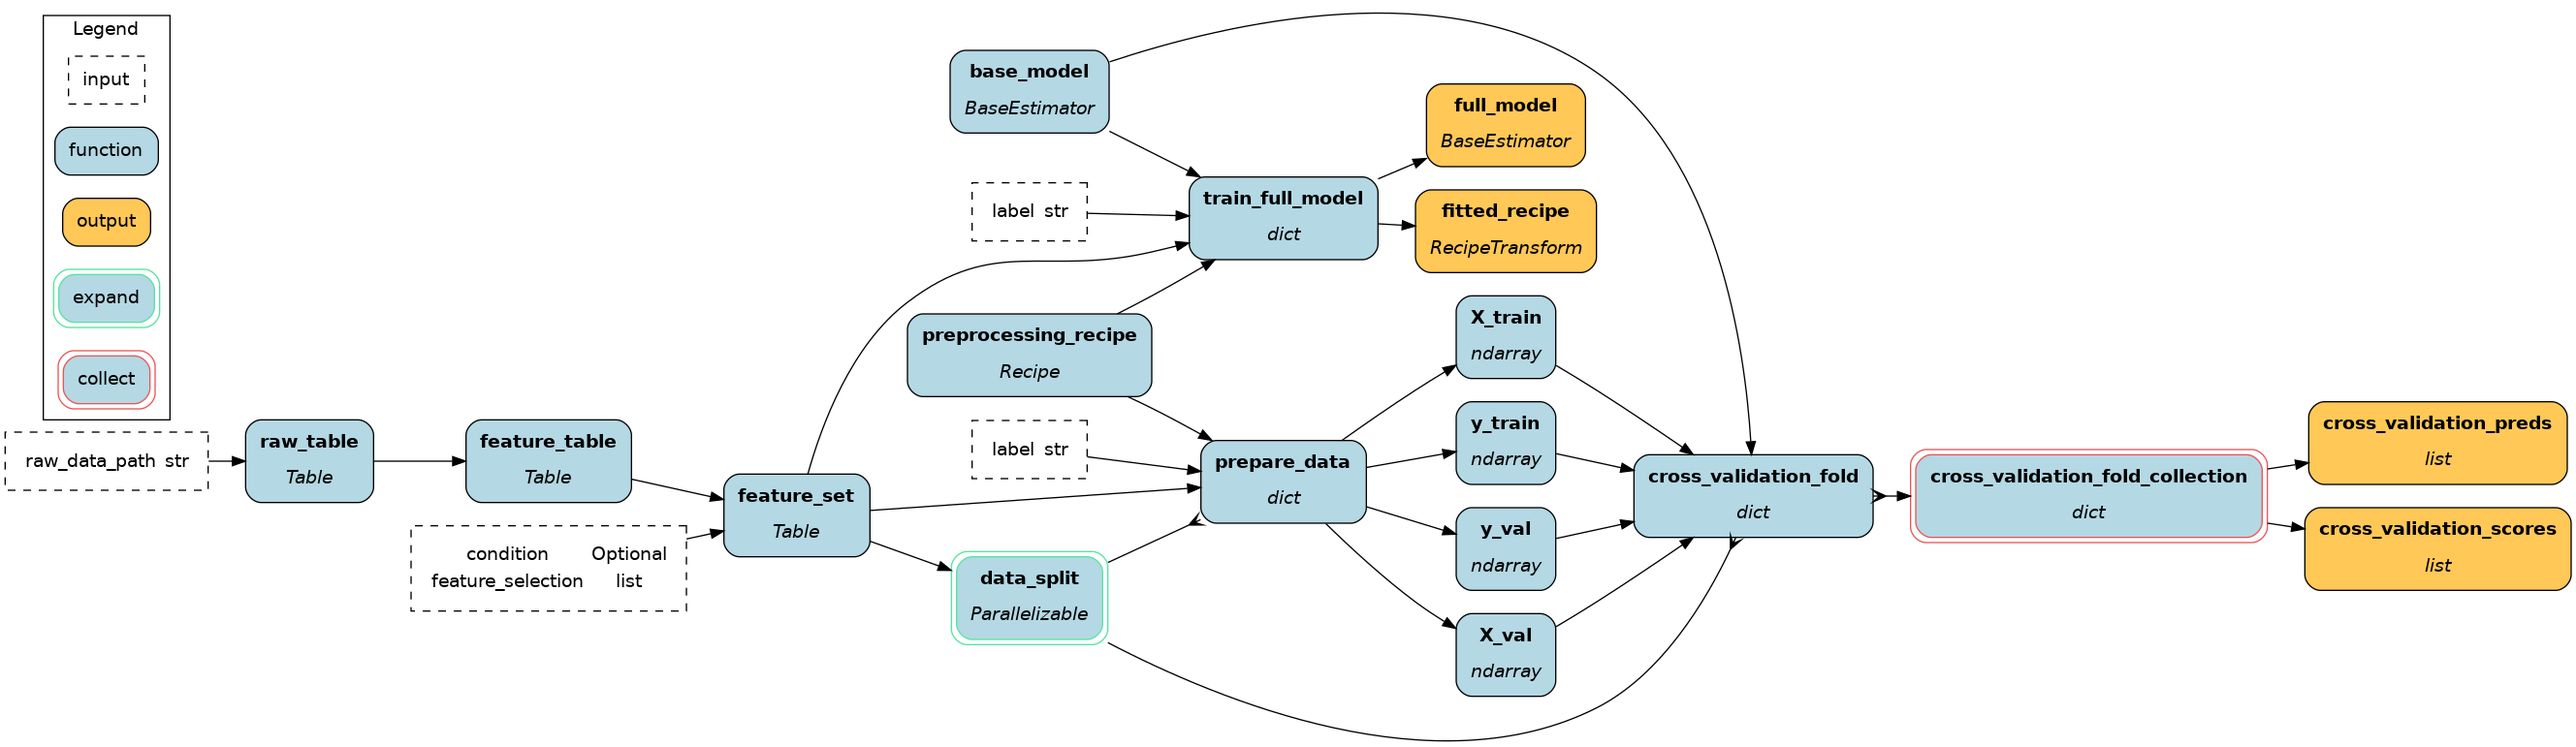
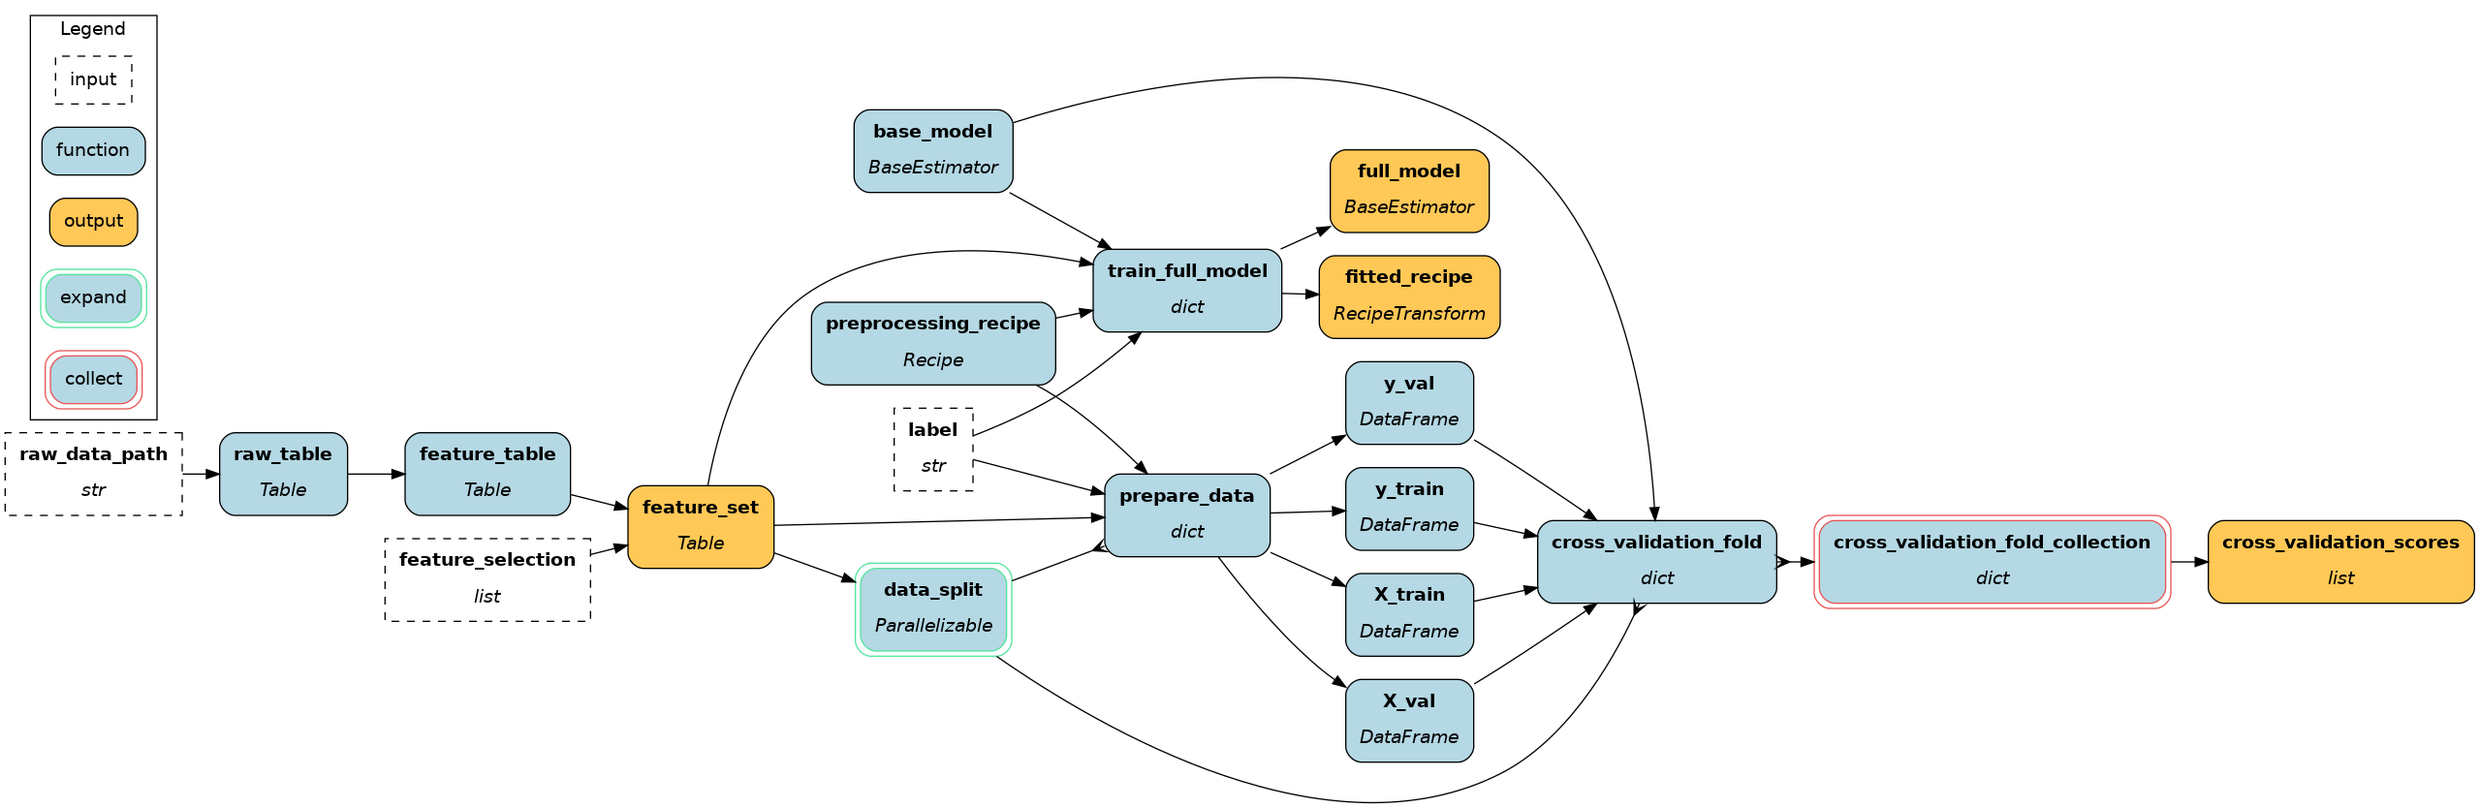
finished cross-validation; bug for column + model

diff --git a/examples/ibis/model_training.py b/examples/ibis/model_training.py
@@ -14,22 +14,29 @@ from hamilton.htypes import Collect, Parallelizable
 
 @config.when(model="linear")
 def base_model__linear() -> BaseEstimator:
+    """Use Linear regression"""
     return LinearRegression()
 
 
 @config.when(model="random_forest")
 def base_model__random_forest() -> BaseEstimator:
+    "Use Random forest regression"
     return RandomForestRegressor()
 
 
 @config.when(model="boosting")
 def base_model__boosting() -> BaseEstimator:
+    "Use gradient boosting reression"
     return HistGradientBoostingRegressor()
 
 
 def preprocessing_recipe() -> ibisml.Recipe:
+    """Recipe to preprocess data for fitting and inference.
+    We drop the temporary `idx` column generated to
+    create cross validation splits
+    """
     return ibisml.Recipe(
-        ibisml.Drop(["id"]),
+        ibisml.Drop(["idx"]),
         ibisml.ImputeMean(ibisml.numeric()),
         ibisml.ScaleStandard(ibisml.numeric()),
         ibisml.OneHotEncode(ibisml.nominal()),
@@ -40,9 +47,10 @@ def data_split(
     feature_set: ir.Table,
     n_splits: int = 3,
 ) -> Parallelizable[tuple]:
-    ids = feature_set.id.to_pandas()
+    """Generate indices to create train/validation splits n times"""
     folds = KFold(n_splits=n_splits)
-    for train_idx, val_idx in folds.split(ids):
+    idx = list(range(feature_set.count().execute()))
+    for train_idx, val_idx in folds.split(idx):
         yield train_idx, val_idx
 
 
@@ -60,10 +68,12 @@ def prepare_data(
     data_split: tuple,
     preprocessing_recipe: ibisml.Recipe,
 ) -> dict:
+    """Split data and apply preprocessing recipe"""
     train_idx, val_idx = data_split
-
-    train_set = feature_set  # .filter(ibis._.id.isin(train_idx))
-    val_set = feature_set  # .filter(ibis._.id.isin(val_idx))
+    # add temporary idx column for train/val splits
+    feature_set = feature_set.mutate(idx=ibis.row_number())
+    train_set = feature_set.filter(ibis._.idx.isin(train_idx))
+    val_set = feature_set.filter(ibis._.idx.isin(val_idx))
 
     transform = preprocessing_recipe.fit(train_set, outcomes=[label])
 
@@ -92,6 +102,7 @@ def cross_validation_fold(
     base_model: BaseEstimator,
     data_split: tuple,
 ) -> dict:
+    """Train model and make predictions on validation"""
     train_idx, val_idx = data_split
     model = clone(base_model)
 
@@ -110,6 +121,8 @@ def cross_validation_fold(
     )
 )
 def cross_validation_fold_collection(cross_validation_fold: Collect[dict]) -> dict:
+    """Collect results from cross validation folds; separate predictions and
+    performance scores into two variables"""
     scores, preds = [], []
     for fold in cross_validation_fold:
         scores.append(fold.pop("score"))
@@ -121,10 +134,14 @@ def cross_validation_fold_collection(cross_validation_fold: Collect[dict]) -> di
 
 
 def prediction_table(cross_validation_preds: list[dict]) -> ir.Table:
+    """Create a table with cross validation predictions for future reference"""
     return ibis.memtable(cross_validation_preds)
 
 
 def store_predictions(prediction_table: ir.Table) -> bool:
+    """Store the cross validation predictions table somewhere
+    Currently only returns True.
+    """
     return True
 
 
@@ -140,6 +157,7 @@ def train_full_model(
     preprocessing_recipe: ibisml.Recipe,
     base_model: BaseEstimator,
 ) -> dict:
+    """Train a model on the full dataset to use for inference."""
     transform = preprocessing_recipe.fit(feature_set, outcomes=[label])
 
     data = transform(feature_set)
@@ -152,54 +170,4 @@ def train_full_model(
         full_model=base_model,
         fitted_recipe=transform,
     )
-
-
-if __name__ == "__main__":
-    import model_training
-    import table_dataflow
-
-    from hamilton import driver
-    from hamilton.execution.executors import SynchronousLocalTaskExecutor
-
-    dr = (
-        driver.Builder()
-        .enable_dynamic_execution(allow_experimental_mode=True)
-        .with_modules(model_training, table_dataflow)
-        .with_remote_executor(SynchronousLocalTaskExecutor())
-        .with_config(dict(model="linear"))
-        .build()
-    )
-
-    inputs = dict(
-        raw_data_path="../data_quality/simple/Absenteeism_at_work.csv",
-        feature_selection=[
-            "id",
-            "has_children",
-            "has_pet",
-            "is_summer_brazil",
-            "service_time",
-            "seasons",
-            "disciplinary_failure",
-            "absenteeism_time_in_hours",
-        ],
-        condition=ibis.ifelse(ibis._.has_pet == 1, True, False),
-        label="absenteeism_time_in_hours",
-    )
-    dr.visualize_execution(
-        final_vars=[
-            "cross_validation_scores",
-            "cross_validation_preds",
-            "full_model",
-            "fitted_recipe",
-        ],
-        output_file_path="cross_validation.png",
-        inputs=inputs,
-    )
-    final_vars = ["cross_validation_scores"]
-
-    res = dr.execute(final_vars, inputs=inputs)
-
-    # df = res["feature_set"].to_pandas()
-    print(res["cross_validation_scores"])  # .to_pandas())
-    breakpoint()
-    print()
+    

diff --git a/examples/ibis/run.py b/examples/ibis/run.py
@@ -1,0 +1,68 @@
+import argparse
+
+from hamilton import driver
+from hamilton.execution.executors import SynchronousLocalTaskExecutor
+
+from hamilton.plugins.h_tqdm import ProgressBar
+
+def main(level: str, model: str):
+    dataflow_components = []
+    config = {}
+    final_vars = ["feature_set"]
+    
+    if level == "column":
+        import column_dataflow
+        dataflow_components.append(column_dataflow)
+    elif level == "table":
+        import table_dataflow
+        dataflow_components.append(table_dataflow)
+    else:
+        raise ValueError("`level` must be in ['column', 'table']")
+    
+    if model:
+        import model_training
+        dataflow_components.append(model_training)
+        config["model"] = model
+        final_vars.extend(
+            ["full_model", "fitted_recipe", "cross_validation_scores"]
+        )
+        
+    # build the Driver from modules
+    dr = (
+        driver.Builder()
+        .with_modules(*dataflow_components)
+        .with_config(config)
+        .with_adapters(ProgressBar())
+        .enable_dynamic_execution(allow_experimental_mode=True)
+        .with_remote_executor(SynchronousLocalTaskExecutor())
+        .build()
+    )
+
+    inputs = dict(
+        raw_data_path="../data_quality/simple/Absenteeism_at_work.csv",
+        feature_selection=[
+            "has_children",
+            "has_pet",
+            "is_summer_brazil",
+            "service_time",
+            "seasons",
+            "disciplinary_failure",
+            "absenteeism_time_in_hours",
+        ],
+        label="absenteeism_time_in_hours"
+    )
+    dr.visualize_execution(final_vars=final_vars, inputs=inputs, output_file_path="cross_validation.png")
+
+    # get `feature_set` from dataflow with given `inputs`
+    res = dr.execute(final_vars, inputs=inputs)
+    
+    print(res.keys())
+    
+    
+if __name__ == "__main__":
+    parser = argparse.ArgumentParser()
+    parser.add_argument("--level", choices=["column", "table"])
+    parser.add_argument("--model", choices=["linear", "random_forest", "boosting"])
+    args = parser.parse_args()
+    
+    main(level=args.level, model=args.model)

diff --git a/examples/ibis/table_dataflow.py b/examples/ibis/table_dataflow.py
@@ -37,33 +37,3 @@ def feature_set(
 ) -> ir.Table:
     """Select feature columns and filter rows"""
     return feature_table[feature_selection].filter(condition)
-
-
-if __name__ == "__main__":
-    import __main__
-
-    from hamilton import driver
-
-    dr = driver.Builder().with_modules(__main__).build()
-
-    inputs = dict(
-        raw_data_path="../data_quality/simple/Absenteeism_at_work.csv",
-        feature_selection=[
-            "id",
-            "has_children",
-            "has_pet",
-            "is_summer_brazil",
-            "service_time",
-            "seasons",
-            "disciplinary_failure",
-            "absenteeism_time_in_hours",
-        ],
-        condition=ibis.ifelse(ibis._.has_pet == 1, True, False),
-    )
-    dr.display_all_functions("schema.png", show_schema=True)
-
-    res = dr.execute(["feature_set"], inputs=inputs)
-    breakpoint()
-    df = res["feature_set"].to_pandas()
-    print(df.head())
-    print(df.shape)

diff --git a/examples/ibis/column_dataflow.py b/examples/ibis/column_dataflow.py
@@ -59,31 +59,3 @@ def feature_set(
 ) -> ir.Table:
     """Select feature columns and filter rows"""
     return feature_table[feature_selection].filter(condition)
-
-
-if __name__ == "__main__":
-    import __main__
-
-    from hamilton import driver
-
-    dr = driver.Builder().with_modules(__main__).build()
-    inputs = dict(
-        raw_data_path="../data_quality/simple/Absenteeism_at_work.csv",
-        feature_selection=[
-            "id",
-            "has_children",
-            "has_pet",
-            "is_summer_brazil",
-            "service_time",
-            "seasons",
-            "disciplinary_failure",
-            "absenteeism_time_in_hours",
-        ],
-        condition=ibis.ifelse(ibis._.has_pet == 1, True, False),
-    )
-
-    res = dr.execute(["feature_set"], inputs=inputs)
-
-    df = res["feature_set"].to_pandas()
-    print(df.head())
-    print(df.shape)
